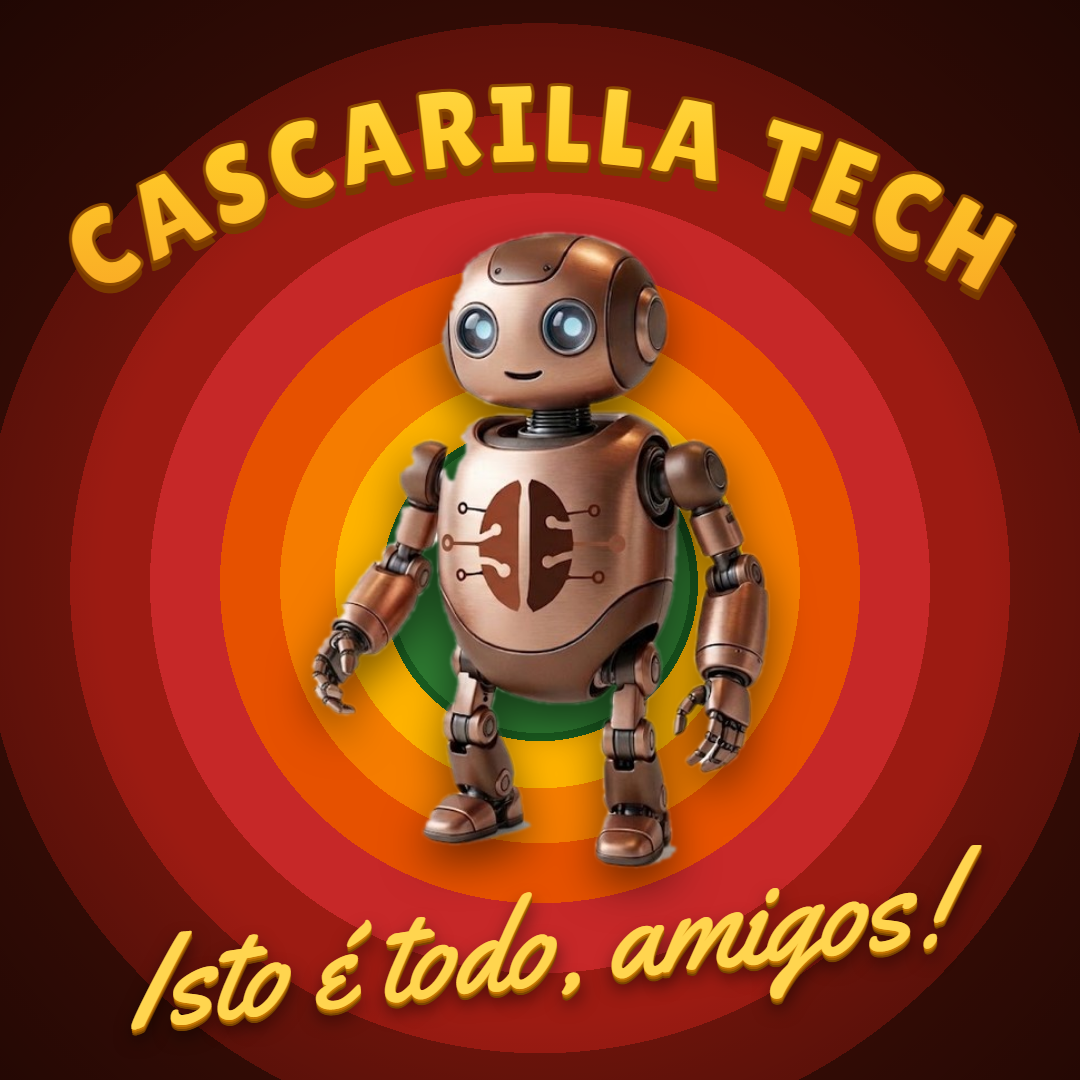
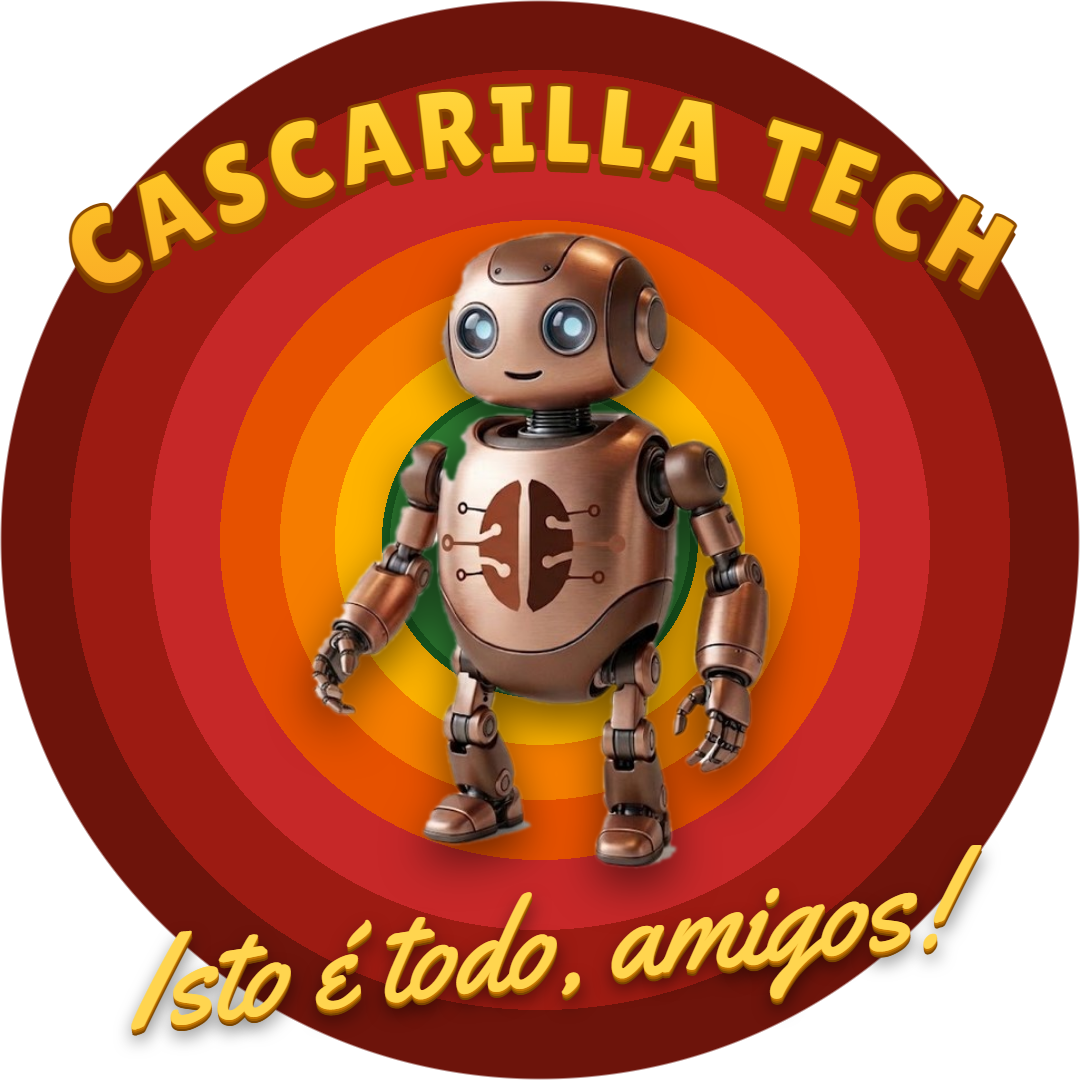
Despedida: imaxe do peche circular con fondo transparente

diff --git a/public/events/one-ai-day/despedida/index.html b/public/events/one-ai-day/despedida/index.html
@@ -23,7 +23,7 @@
         @keyframes q-bob { 0%, 100% { transform: translateY(0) rotate(-6deg); } 50% { transform: translateY(-6px) rotate(6deg); } }
         .data-cal { display: flex; align-items: center; gap: .45em; }
         .data-cal svg { color: var(--c1); flex: none; }
-        .folks { margin-top: 28px; max-height: 300px; max-width: 70%; border-radius: 12px; box-shadow: 0 8px 24px rgba(0,0,0,.25); }
+        .folks { margin-top: 28px; max-height: 300px; max-width: 70%; filter: drop-shadow(0 8px 16px rgba(0,0,0,.3)); }
     </style>
 </head>
 <body>
@@ -200,7 +200,7 @@
         <p class="statement finale">Isto é todo, amigos!</p>
         <span class="underline underline--short"></span>
         <!-- Homenaxe a "That's all folks!" co noso robot -->
-        <img class="folks" src="isto-e-todo-amigos.png" alt="Isto é todo, amigos!" />
+        <img class="folks" src="isto-e-todo-amigos.png?v=2" alt="Isto é todo, amigos!" />
     </section>
 
     <footer class="deck-footer">
